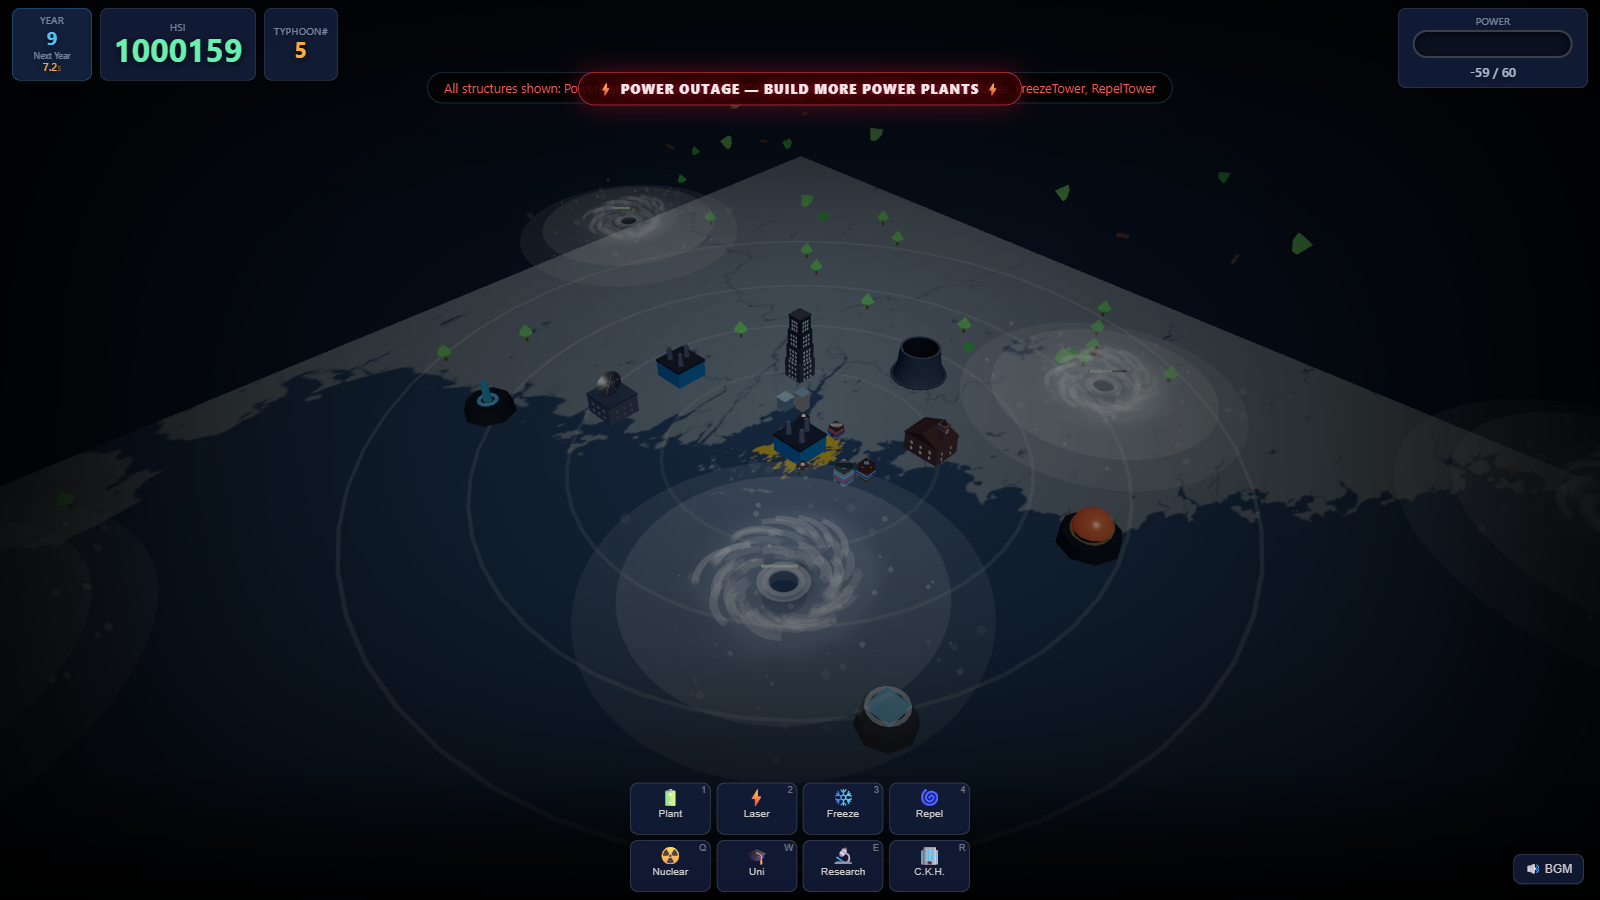
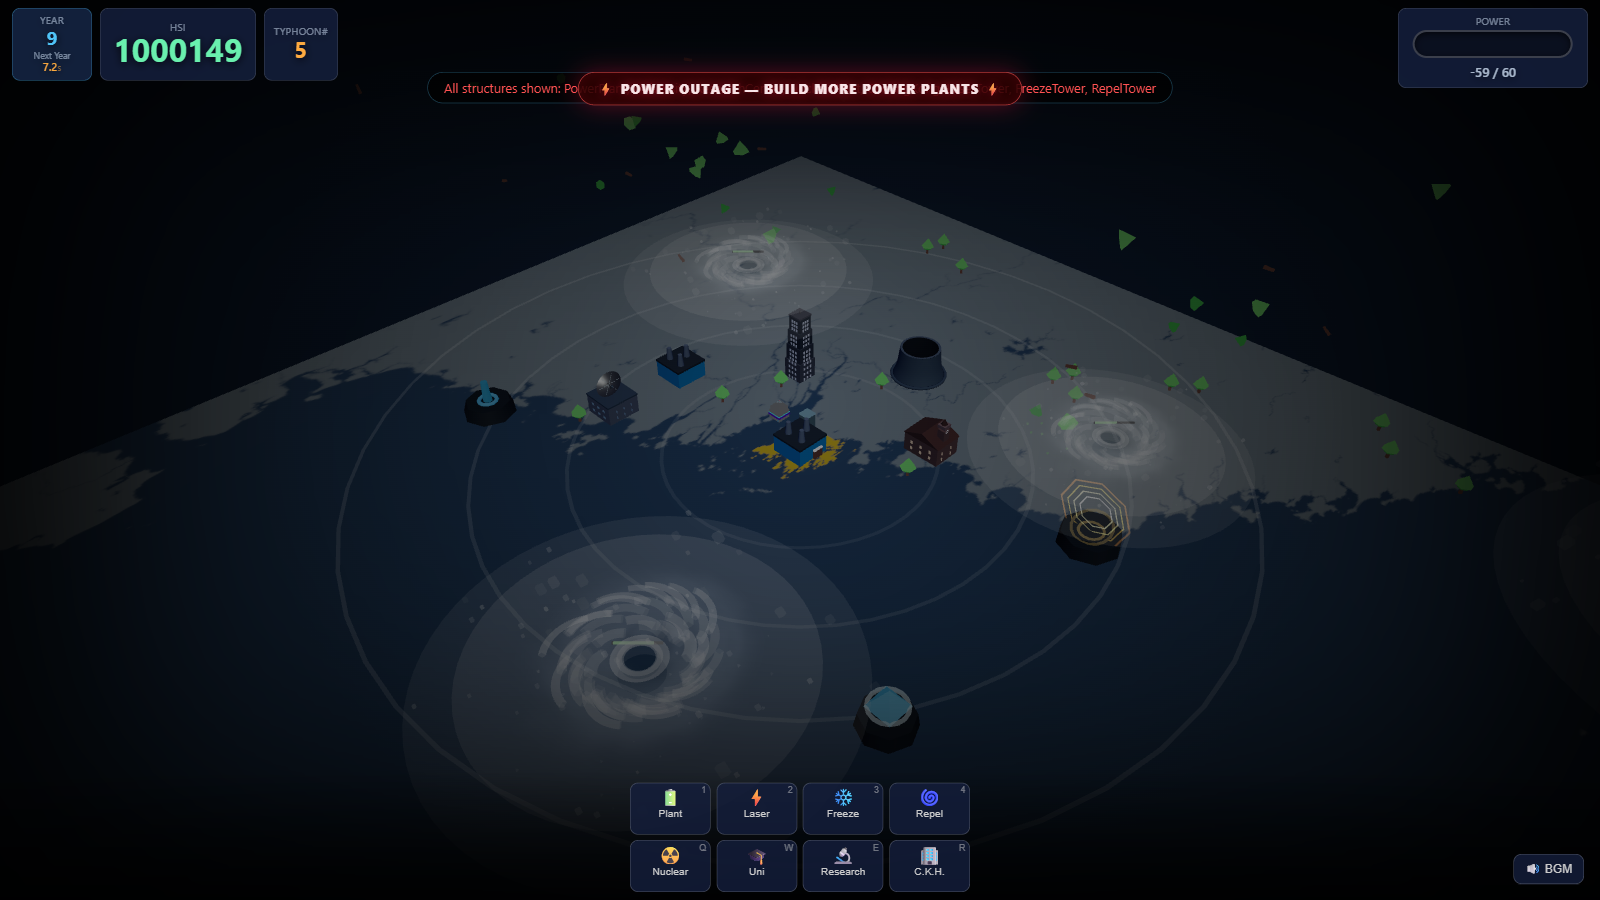
Redesign Repel Tower as concentric AT-field rings
Replace the orange dome with layered glowing octagonal light-trail rings and remove the center ball, filled center plane, and mast/rod so the top reads as an AT-field barrier.
Keep the AT-field head rotating toward its active target while firing.
Refresh canonical README screenshots from the latest build.

QA: Verified RepelTower has four octagonal field children, all 8 structures are present in action.png generation, Game Over and Victory screenshot states asserted, and browser console errors were 0.

LLM-Model: gpt-5.5 (GPT-5.5)

diff --git a/games/typhoon-tycoon/src/systems/towers.js b/games/typhoon-tycoon/src/systems/towers.js
@@ -27,7 +27,10 @@ const towerGeoms = {
   freezeRing: new THREE.TorusGeometry(0.35, 0.04, 8, 16),
   // RepelTower
   repelBase: new THREE.CylinderGeometry(0.6, 0.65, 0.3, 8),
-  repelDome: new THREE.SphereGeometry(0.4, 12, 8, 0, Math.PI * 2, 0, Math.PI / 2),
+  repelFieldRing0: new THREE.RingGeometry(0.34, 0.37, 8),
+  repelFieldRing1: new THREE.RingGeometry(0.47, 0.50, 8),
+  repelFieldRing2: new THREE.RingGeometry(0.60, 0.63, 8),
+  repelFieldRing3: new THREE.RingGeometry(0.73, 0.77, 8),
   repelRing0: new THREE.TorusGeometry(0.25, 0.03, 8, 16),
   repelRing1: new THREE.TorusGeometry(0.40, 0.03, 8, 16),
 };
@@ -91,12 +94,31 @@ export function createTowerMesh(type) {
     );
     base.position.y = 0.15;
     group.add(base);
-    const dome = new THREE.Mesh(
-      towerGeoms.repelDome,
-      new THREE.MeshStandardMaterial({ color: 0xff8a65, emissive: 0xff6d00, emissiveIntensity: 0.3, roughness: 0.3, metalness: 0.4 })
-    );
-    dome.position.y = 0.4;
-    group.add(dome);
+    const fieldHead = new THREE.Group();
+    fieldHead.position.y = 0.78;
+    const fieldLayers = [
+      { geom: towerGeoms.repelFieldRing0, color: 0xfff176, opacity: 0.95, z: 0.000 },
+      { geom: towerGeoms.repelFieldRing1, color: 0xffd54f, opacity: 0.85, z: 0.012 },
+      { geom: towerGeoms.repelFieldRing2, color: 0xffa000, opacity: 0.72, z: 0.024 },
+      { geom: towerGeoms.repelFieldRing3, color: 0xff6d00, opacity: 0.58, z: 0.036 }
+    ];
+    for (const layer of fieldLayers) {
+      const octagon = new THREE.Mesh(
+        layer.geom,
+        new THREE.MeshBasicMaterial({
+          color: layer.color,
+          transparent: true,
+          opacity: layer.opacity,
+          side: THREE.DoubleSide,
+          depthWrite: false,
+          blending: THREE.AdditiveBlending
+        })
+      );
+      octagon.position.z = layer.z;
+      fieldHead.add(octagon);
+    }
+    group.add(fieldHead);
+    group.userData.atField = fieldHead;
     for (let i = 0; i < 2; i++) {
       const r = new THREE.Mesh(
         i === 0 ? towerGeoms.repelRing0 : towerGeoms.repelRing1,
@@ -555,6 +577,9 @@ export function updateTowers(dt) {
         if (!t._hadRepelTarget) { t._hadRepelTarget = true; playRepelSound(); }
         const dx = nearest.x - t.wx;
         const dz = nearest.z - t.wz;
+        if (t.mesh.userData.atField) {
+          t.mesh.userData.atField.rotation.y = Math.atan2(dx, dz);
+        }
         const dist = Math.sqrt(dx * dx + dz * dz);
         if (dist > 0) {
           const repelConfig = getStructConfig('RepelTower');
